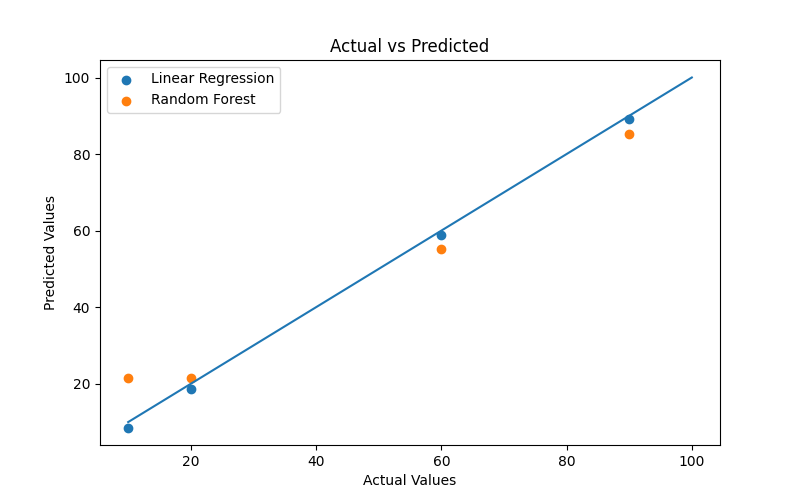
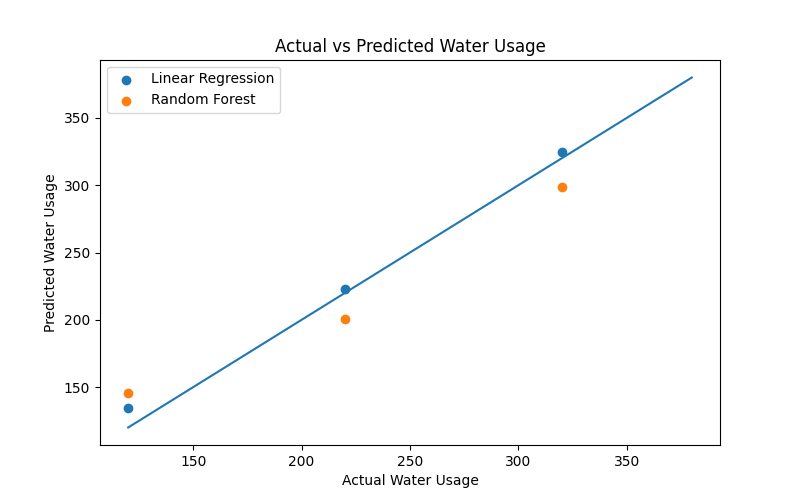
committed

diff --git a/website/index.html b/website/index.html
@@ -367,28 +367,47 @@
   <!-- ML PREDICTION -->
   <section id="prediction">
 
-    <h2>Machine Learning Prediction</h2>
-
+    <h2>Machine Learning Water Usage Prediction</h2>
+  
     <div class="ml-box">
-
-      <p>Enter study hours to predict score</p>
-
-      <input
-        type="number"
-        id="hours"
-        placeholder="Enter study hours"
-      />
-
-      <br>
-
-      <button onclick="predictScore()">
-        Predict
-      </button>
-
-      <h2 id="result"></h2>
-
+  
+        <p>
+          Predict household water usage using
+          Machine Learning
+        </p>
+  
+        <input
+          type="number"
+          id="household_size"
+          placeholder="Household Size"
+        />
+  
+        <br><br>
+  
+        <input
+          type="number"
+          id="temperature"
+          placeholder="Temperature"
+        />
+  
+        <br><br>
+  
+        <input
+          type="number"
+          id="month"
+          placeholder="Month (1-12)"
+        />
+  
+        <br><br>
+  
+        <button onclick="predictWaterUsage()">
+          Predict Water Usage
+        </button>
+  
+        <h2 id="result"></h2>
+  
     </div>
-
+  
   </section>
 
   <!-- RECOMMENDATIONS -->
@@ -435,42 +454,69 @@
 
 <script>
 
-async function predictScore() {
-
-    const hours =
-        document.getElementById("hours").value;
-
-    try {
-
-        const response = await fetch(
-            "http://127.0.0.1:5000/predict",
-            {
-                method: "POST",
-
-                headers: {
-                    "Content-Type": "application/json"
-                },
-
-                body: JSON.stringify({
-                    hours: Number(hours)
-                })
-            }
-        );
-
-        const data = await response.json();
-
-        document.getElementById("result").innerText =
-            "Predicted Score: " +
-            data.predicted_score;
-
-    } catch(error) {
-
-        document.getElementById("result").innerText =
-            "Error connecting to ML server";
-    }
-}
-
-</script>
+  async function predictWaterUsage() {
+  
+      const household_size =
+          document.getElementById(
+              "household_size"
+          ).value;
+  
+      const temperature =
+          document.getElementById(
+              "temperature"
+          ).value;
+  
+      const month =
+          document.getElementById(
+              "month"
+          ).value;
+  
+      try {
+  
+          const response = await fetch(
+              "http://127.0.0.1:5000/predict",
+              {
+                  method: "POST",
+  
+                  headers: {
+                      "Content-Type": "application/json"
+                  },
+  
+                  body: JSON.stringify({
+  
+                      household_size:
+                          Number(household_size),
+  
+                      temperature:
+                          Number(temperature),
+  
+                      month:
+                          Number(month)
+                  })
+              }
+          );
+  
+          const data = await response.json();
+  
+          document.getElementById("result")
+              .innerHTML =
+  
+              "Predicted Water Usage: " +
+  
+              data.predicted_water_usage +
+  
+              " Litres";
+  
+      } catch(error) {
+  
+          document.getElementById("result")
+              .innerHTML =
+  
+              "Error connecting to ML server";
+      }
+  }
+  
+  </script>
 
 </body>
 </html>

diff --git a/ml.py b/ml.py
@@ -18,23 +18,33 @@ app = Flask(__name__)
 CORS(app)
 
 # -----------------------------------
-# DATASET
+# MUNICIPAL WATER DATASET
 # -----------------------------------
 
 data = {
 
-    "hours": [
-        1, 2, 3, 4, 5,
-        6, 7, 8, 9, 10,
+    "household_size": [
         2, 3, 4, 5, 6,
-        7, 8, 9
+        2, 3, 4, 5, 6,
+        3, 4, 5, 6, 7
     ],
 
-    "score": [
-        10, 20, 30, 40, 50,
-        60, 70, 80, 90, 100,
-        18, 28, 38, 48, 58,
-        68, 78, 88
+    "temperature": [
+        22, 24, 26, 30, 34,
+        21, 23, 27, 31, 35,
+        25, 28, 32, 36, 38
+    ],
+
+    "month": [
+        1, 2, 3, 4, 5,
+        6, 7, 8, 9, 10,
+        11, 12, 1, 2, 3
+    ],
+
+    "water_usage": [
+        120, 150, 180, 240, 300,
+        130, 160, 210, 260, 320,
+        170, 220, 280, 340, 380
     ]
 }
 
@@ -44,8 +54,13 @@ df = pd.DataFrame(data)
 # FEATURES AND TARGET
 # -----------------------------------
 
-X = df[["hours"]]
-y = df["score"]
+X = df[[
+    "household_size",
+    "temperature",
+    "month"
+]]
+
+y = df["water_usage"]
 
 # -----------------------------------
 # TRAIN TEST SPLIT
@@ -59,19 +74,17 @@ X_train, X_test, y_train, y_test = train_test_split(
 )
 
 # -----------------------------------
-# LINEAR REGRESSION MODEL
+# LINEAR REGRESSION
 # -----------------------------------
 
 linear_model = LinearRegression()
 
-# MODEL TRAINING
 linear_model.fit(X_train, y_train)
 
-# PREDICTION
 linear_predictions = linear_model.predict(X_test)
 
 # -----------------------------------
-# RANDOM FOREST MODEL
+# RANDOM FOREST
 # -----------------------------------
 
 random_forest_model = RandomForestRegressor(
@@ -79,10 +92,8 @@ random_forest_model = RandomForestRegressor(
     random_state=42
 )
 
-# MODEL TRAINING
 random_forest_model.fit(X_train, y_train)
 
-# PREDICTION
 rf_predictions = random_forest_model.predict(X_test)
 
 # -----------------------------------
@@ -128,8 +139,7 @@ print("MAE :", round(rf_mae, 2))
 print("RMSE:", round(rf_rmse, 2))
 
 # -----------------------------------
-# GRAPH
-# Actual vs Predicted
+# ACTUAL VS PREDICTED GRAPH
 # -----------------------------------
 
 plt.figure(figsize=(8, 5))
@@ -151,10 +161,10 @@ plt.plot(
     [y.min(), y.max()]
 )
 
-plt.xlabel("Actual Values")
-plt.ylabel("Predicted Values")
+plt.xlabel("Actual Water Usage")
+plt.ylabel("Predicted Water Usage")
 
-plt.title("Actual vs Predicted")
+plt.title("Actual vs Predicted Water Usage")
 
 plt.legend()
 
@@ -164,13 +174,13 @@ print("\nGraph saved as:")
 print("actual_vs_predicted.png")
 
 # -----------------------------------
-# FLASK ROUTES
+# HOME ROUTE
 # -----------------------------------
 
 @app.route("/")
 def home():
 
-    return "ML Server Running"
+    return "Municipal Water ML Server Running"
 
 # -----------------------------------
 # PREDICTION API
@@ -183,18 +193,29 @@ def predict():
 
         data = request.get_json()
 
-        hours = float(data["hours"])
-
-        # USING RANDOM FOREST FOR FINAL PREDICTION
-        prediction = random_forest_model.predict(
-            [[hours]]
+        household_size = float(
+            data["household_size"]
         )
+
+        temperature = float(
+            data["temperature"]
+        )
+
+        month = float(
+            data["month"]
+        )
+
+        prediction = random_forest_model.predict([[
+            household_size,
+            temperature,
+            month
+        ]])
 
         result = round(float(prediction[0]), 2)
 
         return jsonify({
 
-            "predicted_score": result,
+            "predicted_water_usage": result,
 
             "linear_regression_mae":
                 round(linear_mae, 2),
